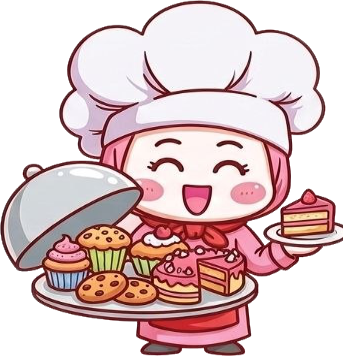
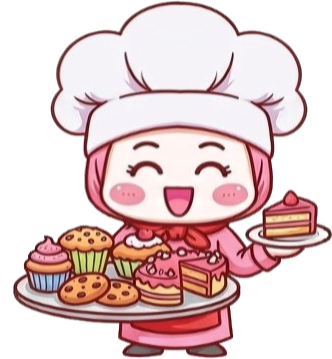
add arrow to order section

diff --git a/index.html b/index.html
@@ -142,6 +142,7 @@
             <p>
               Reach out to us via WhatsApp to discuss your order and preferences.
             </p>
+            <img src="./img/arrow.png" alt="arrow" class="arrow">
           </div>
 
           <div class="single-order">
@@ -153,6 +154,7 @@
             <p>
               Provide details about your desired cake, including size, flavor, and any special requests.
             </p>
+            <img src="./img/arrow.png" alt="arrow" class="arrow">
           </div>
 
           <div class="single-order">

diff --git a/style/style.css b/style/style.css
@@ -1067,6 +1067,13 @@ button {
   opacity: 0.75;
   z-index: -1;
 }
+.site-main section.section-order .order-container .arrow {
+  position: absolute;
+  bottom: 50%;
+  left: calc(100% + 20px);
+  width: 80px;
+  height: auto;
+}
 .site-main section.section-order .order-container p {
   font-size: 20px;
   color: #fff;

diff --git a/scss/_homepage.scss b/scss/_homepage.scss
@@ -323,6 +323,14 @@ button {
         z-index: -1;
       }
 
+      .arrow {
+        position: absolute;
+        bottom: 50%;
+        left: calc(100% + 20px);
+        width: 80px;
+        height: auto;
+      }
+
       // .single-order:nth-child(2) {
       //   .img-container .eclipse {
       //     left: 15%;
